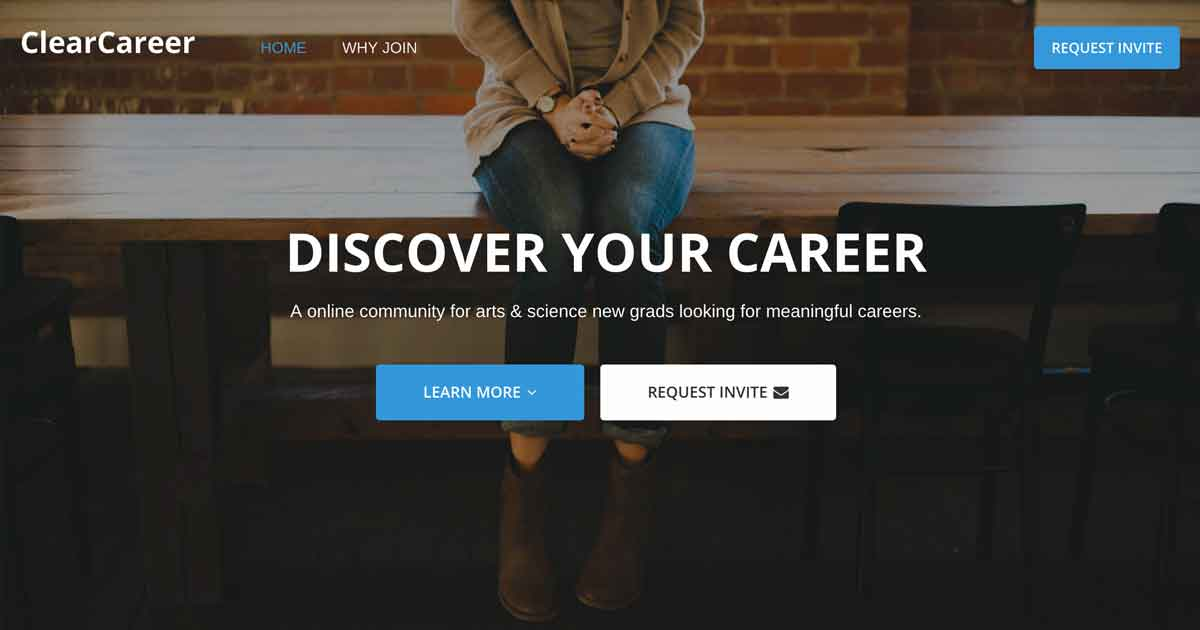
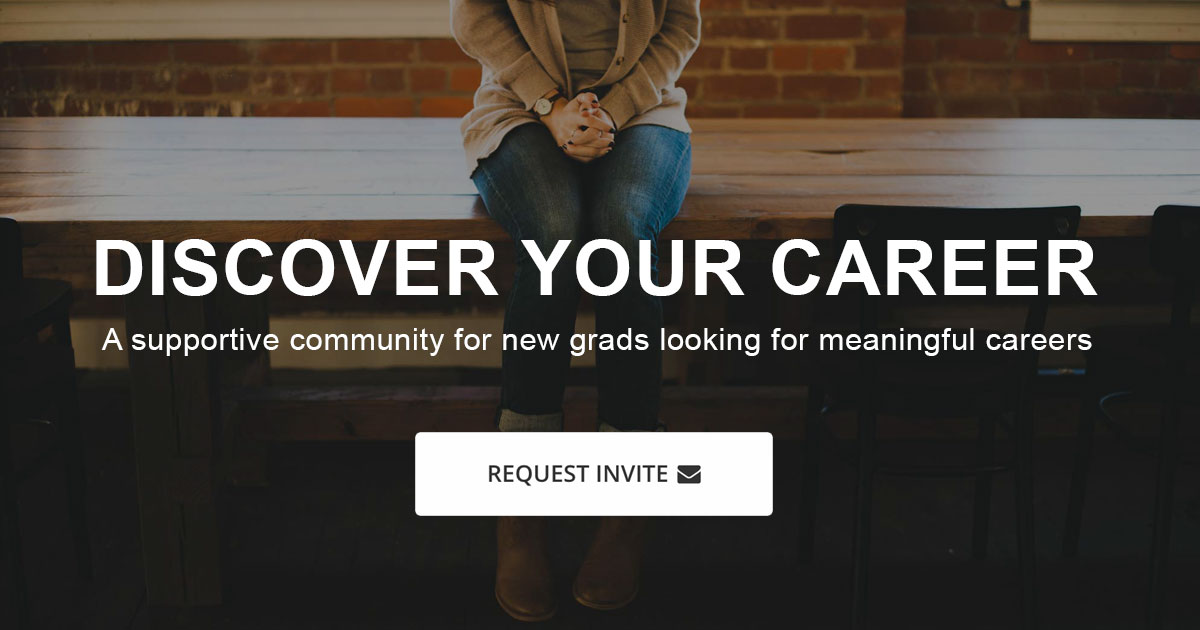
Social Image 2

diff --git a/index.html b/index.html
@@ -12,11 +12,12 @@
         <meta name="author" content="Iskender Piyale-Sheard">
 
         <!-- Facebook Metatags -->
-        <meta property="og:title" content="Discover Your Career" />
+        <meta property="og:title" content="Clear Career" />
         <meta property="og:site_name" content="ClearCareer"/>
         <meta property="og:type"   content="website" /> 
         <meta property="og:url" content="http://clearcareer.ca" />
-        <meta property="og:description" content="A online community for arts & science new grads looking for meaningful careers. LEARN MORE" />
+        <meta property="og:description" content="A online community for arts & science new grads looking for meaningful careers. 
+        LEARN MORE" />
         <meta property="og:image"
         content="http://clearcareer.ca/images/socialimg2.jpg" />
 
